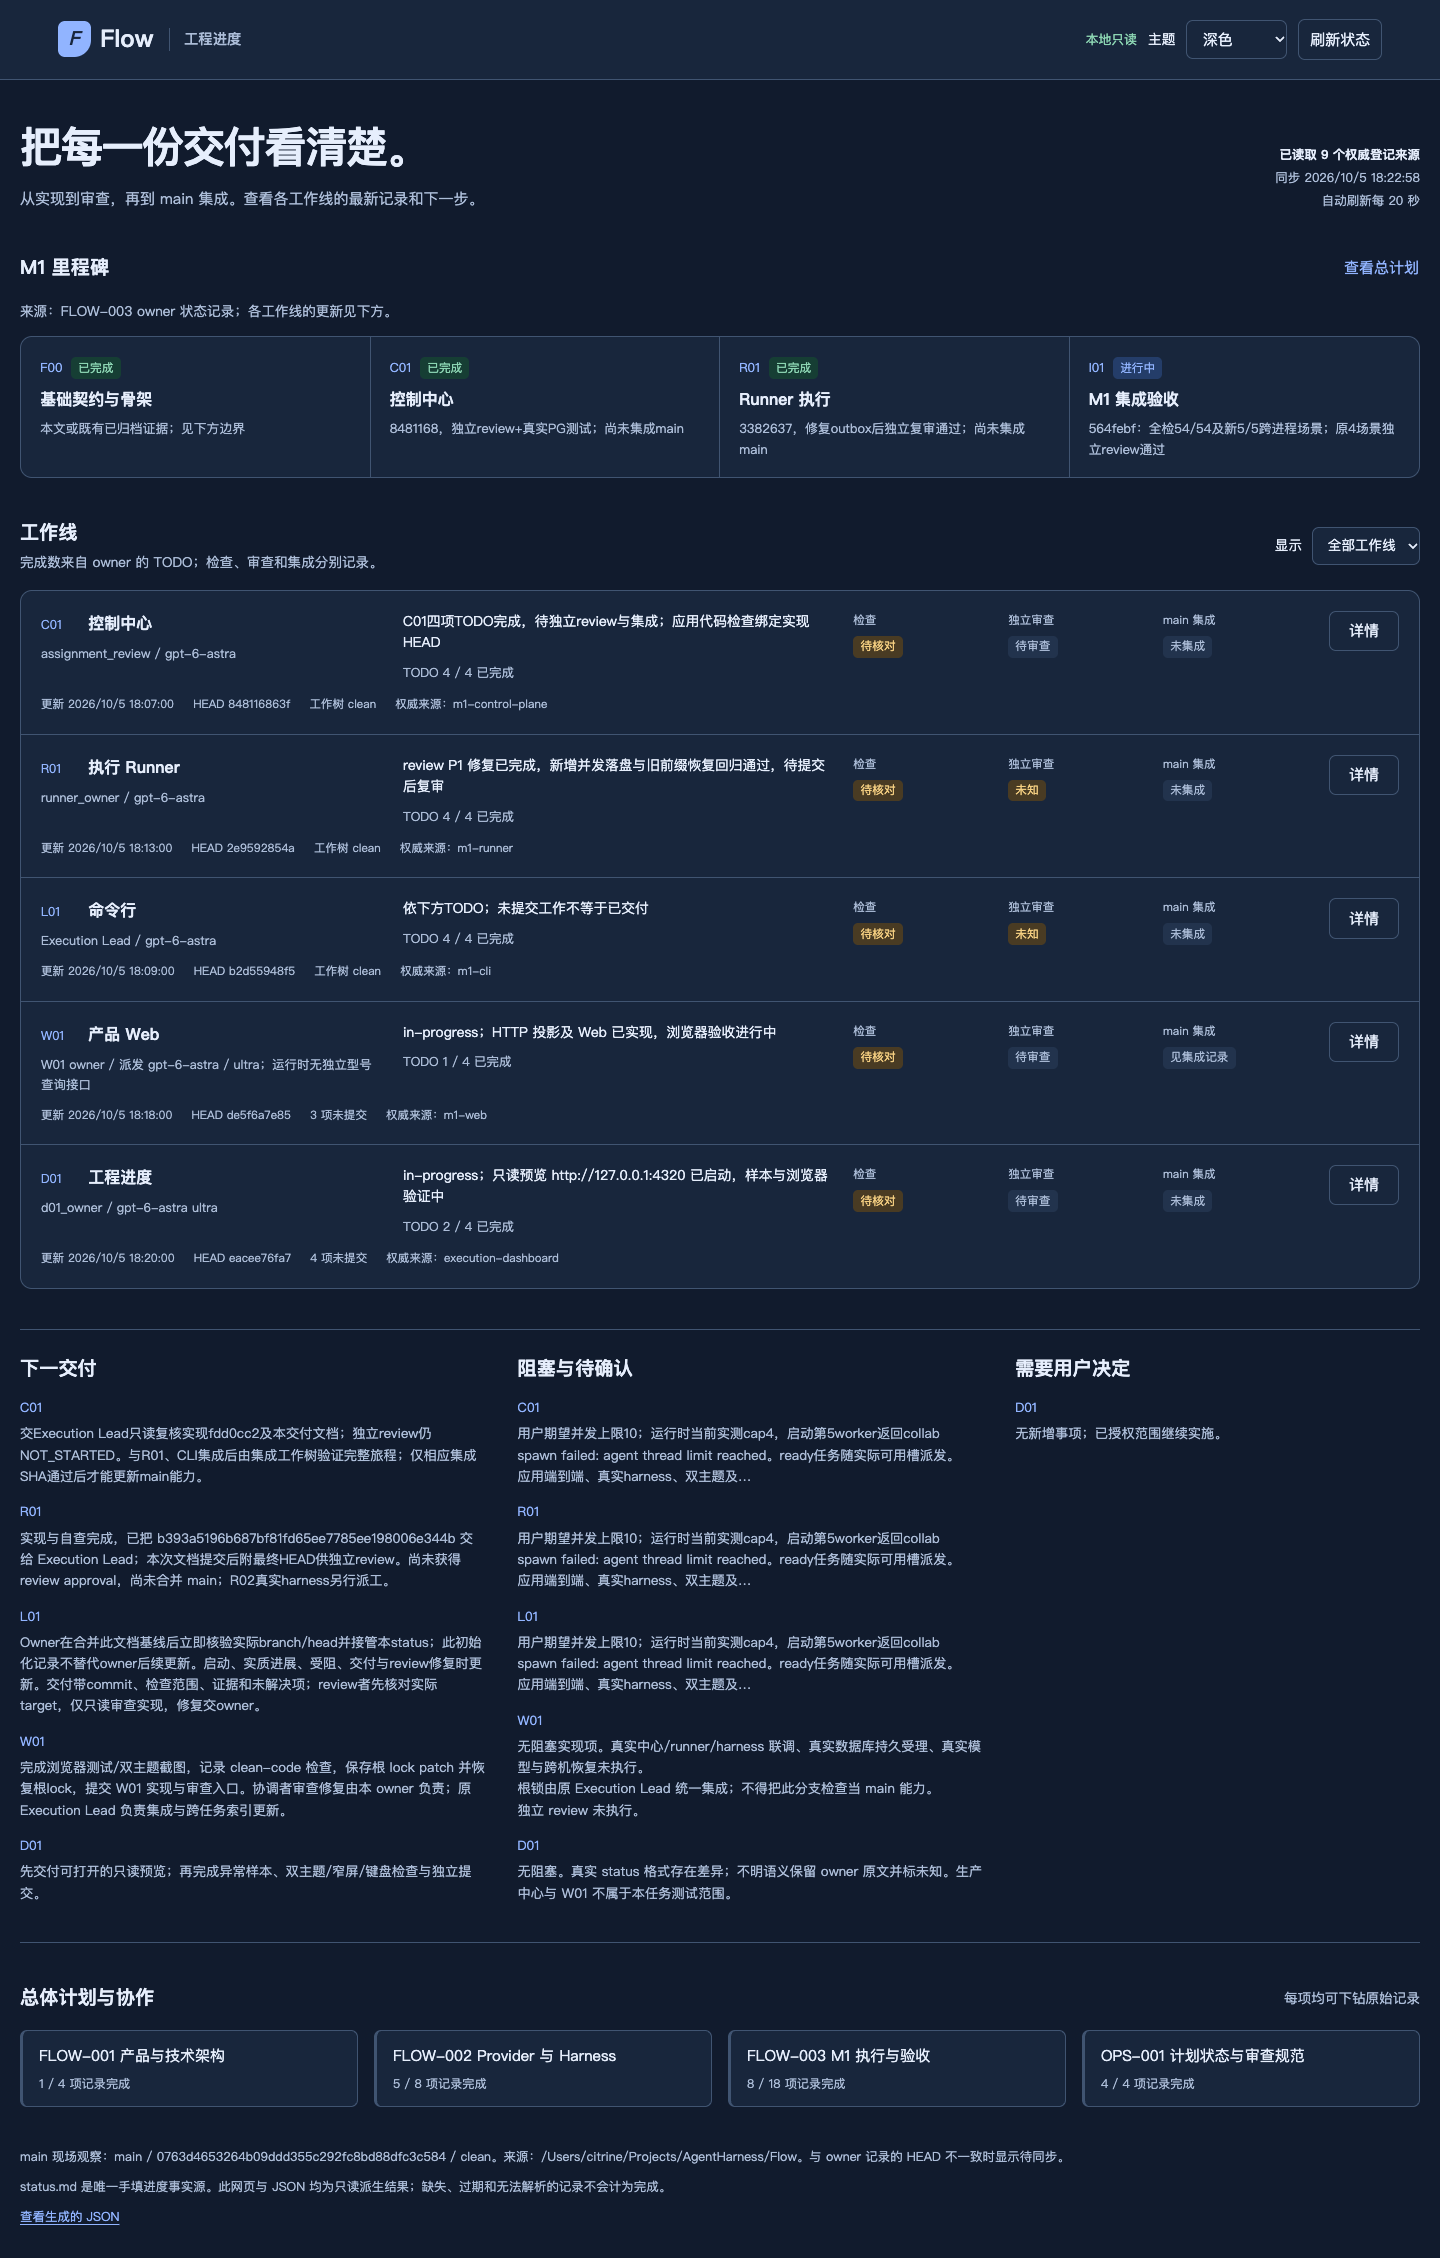
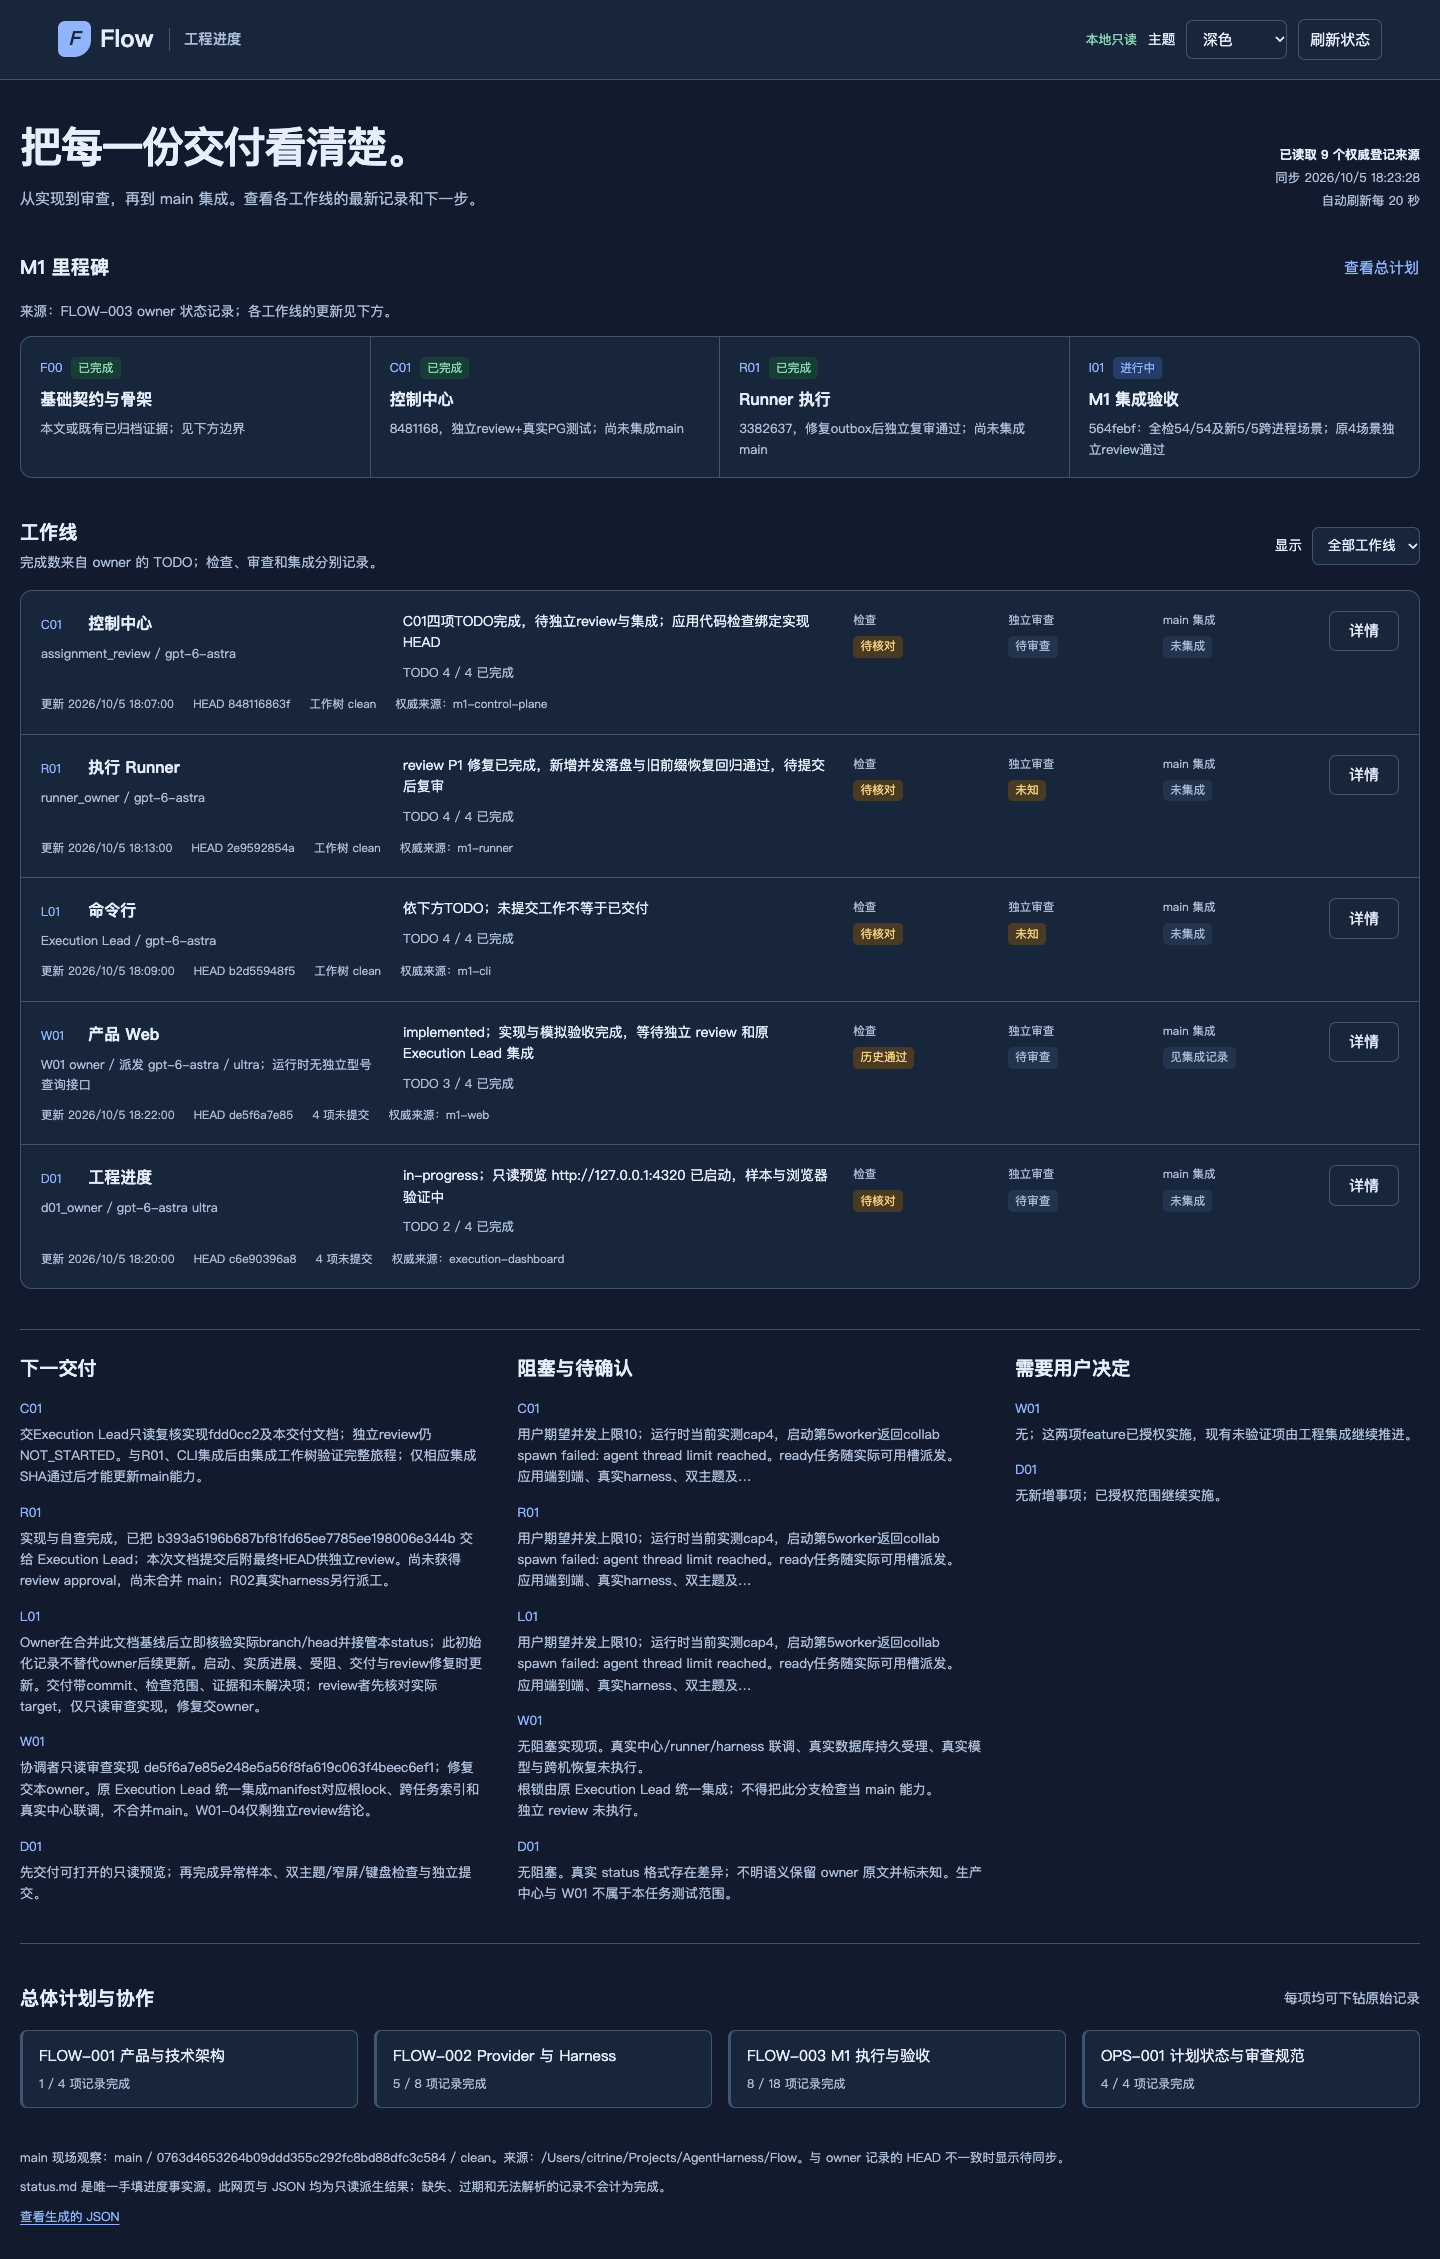
test(dashboard): use current time for browser status fixtures

diff --git a/docs/evidence/d01/validation.md b/docs/evidence/d01/validation.md
@@ -32,7 +32,7 @@ PLAYWRIGHT_MODULE=/Users/citrine/.cache/codex-runtimes/codex-primary-runtime/dep
 
 ## 失败与修复
 
-首轮 Host 测试失败是 Node fetch 不允许覆盖 Host；换用内置 http 客户端后验证403通过。首次浏览器脚本使用不稳定“显示”label定位超时；补明确可访问名称后重跑通过。未删除这些失败事实；最终产物只保存最新成功检查。
+首轮 Host 测试失败是 Node fetch 不允许覆盖 Host；换用内置 http 客户端后验证403通过。首次浏览器脚本使用不稳定“显示”label定位超时；补明确可访问名称后重跑通过。补充历史检查徽标断言时，固定未来样本时间触发“待同步”，因此该断言失败；浏览器样本改用实际当前 UTC，重跑验证历史检查不会成为当前通过。未删除这些失败事实；最终产物只保存最新检查。
 
 ## 未验证与限制
 

diff --git a/docs/evidence/d01/quality.md b/docs/evidence/d01/quality.md
@@ -39,3 +39,5 @@ Owner：d01_owner / gpt-6-astra ultra。范围仅 D01；冻结基线 `eacee76fa7
[3 lines of base64/hex data omitted]
+
+| 2026-10-06 01:23 UTC | 交付前源码、测试和双主题截图 | 独立检查与现场 HEAD 不同或 dirty时显示历史通过；实际浏览器样本已验证该徽标。截图自查浅深对比、390px布局和详情按钮无溢出；记录并修复浏览器样本未来时间。命名、单一职责、错误处理与重复检查完成，无新增生产依赖 | 独立 review待协调者；未执行Safari/Firefox/屏幕阅读器人工验收 |
